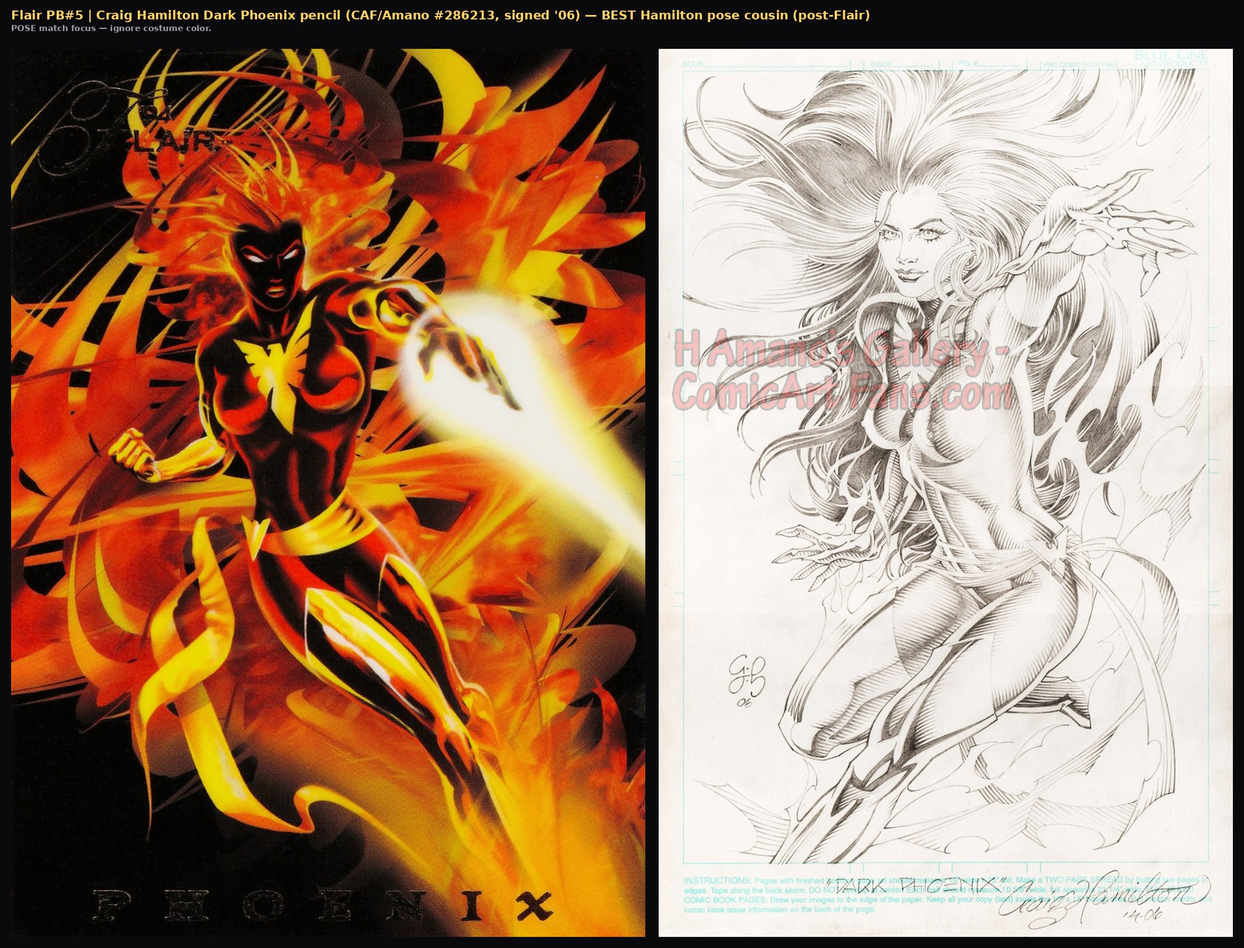
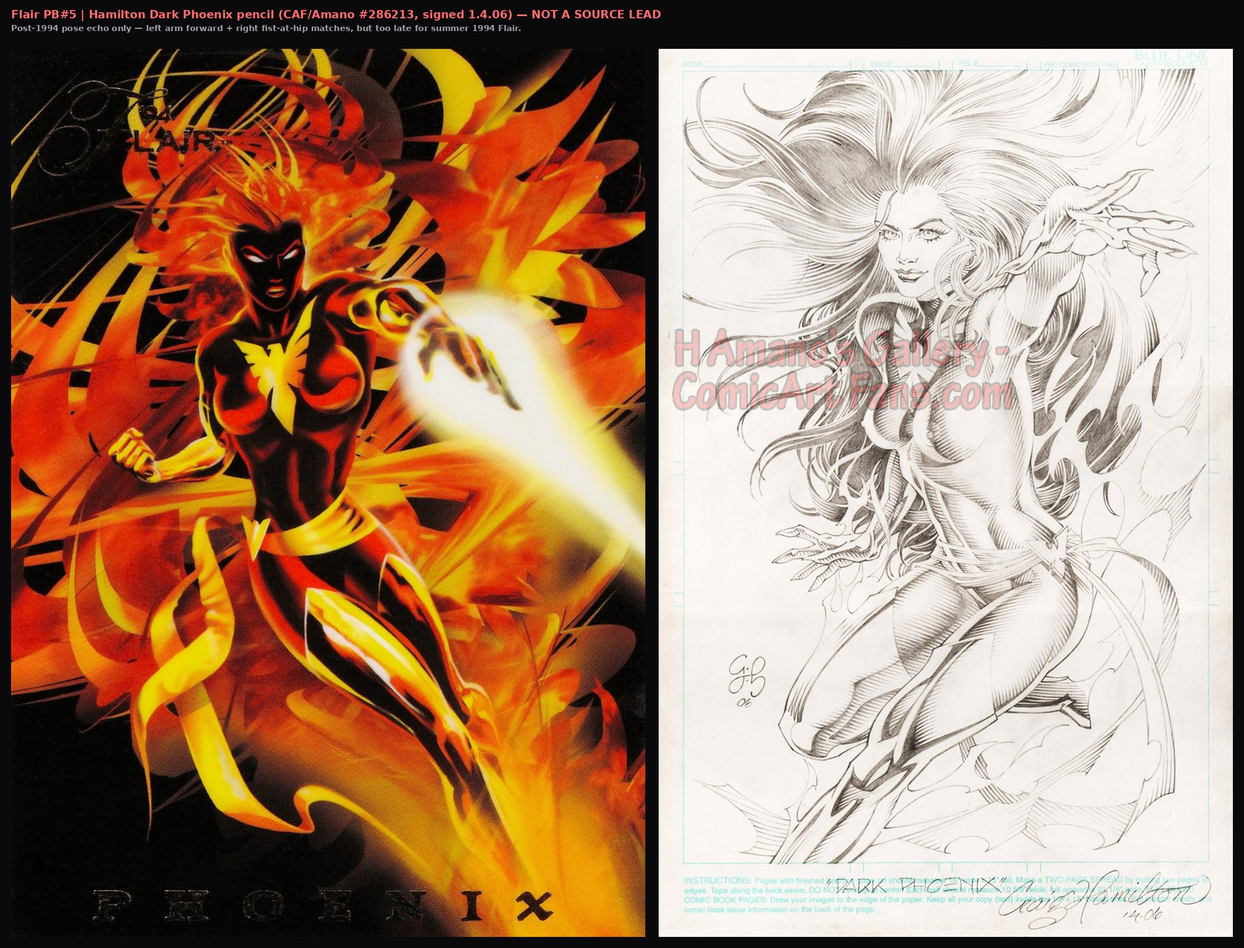
Treat post-1994 Phoenix pose matches as echoes, not source leads
Hard cutoff before summer 1994 Flair: demote Hamilton Amano '06 and
OverPower '99 from cousin leads; keep as documentation only.

Changed region(s): [[0.0, 0.0, 0.6875, 0.031]]

diff --git a/94flair/research/phoenix-near-misses/hq-sbs/index.html b/94flair/research/phoenix-near-misses/hq-sbs/index.html
@@ -6,7 +6,7 @@
 <h1 style="color:#f0e6d2;font:700 32px/1.2 system-ui;margin:0 0 12px">Powerblast #5 Phoenix — literal large pose comparisons</h1>
 <p style="max-width:75ch;font-size:17px">Left = <b style="color:#ffd264">Flair PB #5</b>. Right = candidate. Match <b>pose</b> (one-arm blast + fist/arm at hip) — not costume color.</p>
 <p style="color:#888">66 pairs · ~1600px tall panels</p>
-<p style="color:#ffd264;max-width:85ch"><b>Closest pose cousins so far:</b> (1) 1992 Impel X-Men #24 Jean Grey (Jim Lee); (2) 1992 Masterpieces #46 Jean Grey (Joe Jusko); (3) OverPower Jean Grey: Dark Phoenix (1999 echo?); (4) <b>NEW</b> Craig Hamilton Dark Phoenix pencil CAF/Amano #286213 (signed ’06 — best Hamilton pose cousin, post-Flair). Still no confirmed 1:1 print source.</p>
+<p style="color:#ffd264;max-width:85ch"><b>Pre-1994 pose cousins only (source leads):</b> (1) 1992 Impel X-Men #24 Jean Grey (Jim Lee); (2) 1992 Masterpieces #46 Jean Grey (Joe Jusko). Fanfare #35 Hamilton Phoenix (1987) is style-only. <b>Post-1994 ruled out as leads:</b> OverPower Dark Phoenix (1999), Hamilton Amano pencil (’06), other Hamilton CAF commissions — kept as echo/docs only. Still no confirmed 1:1 print source.</p>
 <section style="margin:40px 0;padding:20px;background:#111;border:1px solid #333">
   <h2 style="color:#f0e6d2;font:600 22px/1.3 system-ui;margin:0 0 14px">01 impel 1991 mu144</h2>
   <p style="color:#aaa;margin:0 0 12px;max-width:90ch">Impel 1991 MU #144 Dark Phoenix (card art near-miss)</p>
@@ -309,7 +309,7 @@
   <p style="color:#666;margin:10px 0 0;font:13px system-ui">Click for full-size · ~1600px panels · POSE not color</p>
 </section><section style="margin:40px 0;padding:20px;background:#111;border:1px solid #333">
   <h2 style="color:#f0e6d2;font:600 22px/1.3 system-ui;margin:0 0 14px">66 hamilton amano dark phoenix 2006</h2>
-  <p style="color:#aaa;margin:0 0 12px;max-width:90ch"><b style="color:#ffd264">BEST Hamilton pose cousin</b> — CAF #286213 Dark Phoenix pencil (Amano gallery), signed ’06. Left arm forward / right hand at hip. Post-dates Flair.</p>
+  <p style="color:#aaa;margin:0 0 12px;max-width:90ch"><b style="color:#ff6b6b">NOT A SOURCE LEAD (post-1994)</b> — CAF #286213 Dark Phoenix pencil, signed 1.4.06. Near-exact pose echo of PB#5; too late for Flair. Docs only.</p>
   <a href="66_hamilton_amano_dark_phoenix_2006.jpg" target="_blank"><img src="66_hamilton_amano_dark_phoenix_2006.jpg" style="width:100%;max-width:3200px;height:auto;display:block" alt="66_hamilton_amano_dark_phoenix_2006.jpg"></a>
   <p style="color:#666;margin:10px 0 0;font:13px system-ui">Click for full-size · ~1600px panels · POSE not color</p>
 </section><section style="margin:40px 0;padding:20px;background:#111;border:1px solid #333">
